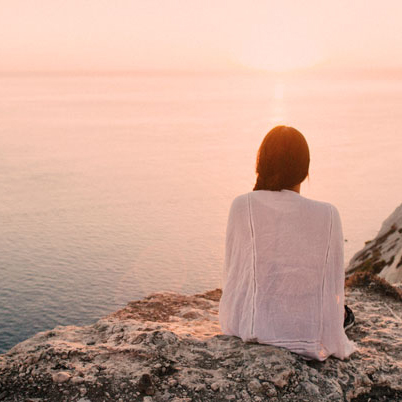
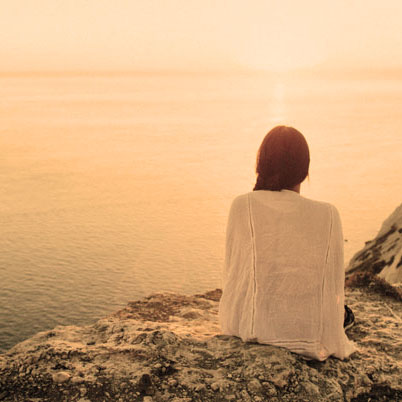
Changed image color and site color scheme

diff --git a/css/style.css b/css/style.css
@@ -71,7 +71,7 @@ header .site-title span
 
     display: block;
 
-    color: #61B2A4;
+    color: #81E0FE;
 }
 
 .block-center,section .container,#skills i{
@@ -107,7 +107,7 @@ section h2
 }
 
 #skills{
-    background-color: #ffd0be;
+    background-color: #fec081;
 }
 
 #skills .container
@@ -156,7 +156,7 @@ section h2
     -webkit-border-radius: 50%;
        -moz-border-radius: 50%;
             border-radius: 50%;
-    background-color: #61B2A4;
+    background-color: #81E0FE;
 }
 
 #skills h3{
@@ -164,7 +164,7 @@ section h2
     font-weight: bold;
     
     margin-bottom: 10px;
-    color: #61B2A4;
+    color: #81E0FE;
 }
 
 #works
@@ -261,7 +261,7 @@ section h2
     -webkit-border-radius: 4px;
        -moz-border-radius: 4px;
             border-radius: 4px;
-    background-color: #61B2A4;
+    background-color: #81E0FE;
 }
 
 #works .works-box img
@@ -280,7 +280,7 @@ section h2
 
 #works .works-box a .works-box-inner .button-readmore:hover
 {
-    background-color: #396960;
+    background-color: #21586A;
 }
 
 #contact ul{
@@ -327,11 +327,11 @@ section h2
     -webkit-border-radius: 50%;
        -moz-border-radius: 50%;
             border-radius: 50%;
-    background-color: #61B2A4;
+    background-color: #81E0FE;
 }
 #contact ul a:hover
 {
-    background-color: #396960;
+    background-color: #21586A;
 }
 
 footer
@@ -341,6 +341,6 @@ footer
     text-align: center;
 
     color: #fff;
-    background-color: #ffd0be;
+    background-color: #fec081;
 }
 
